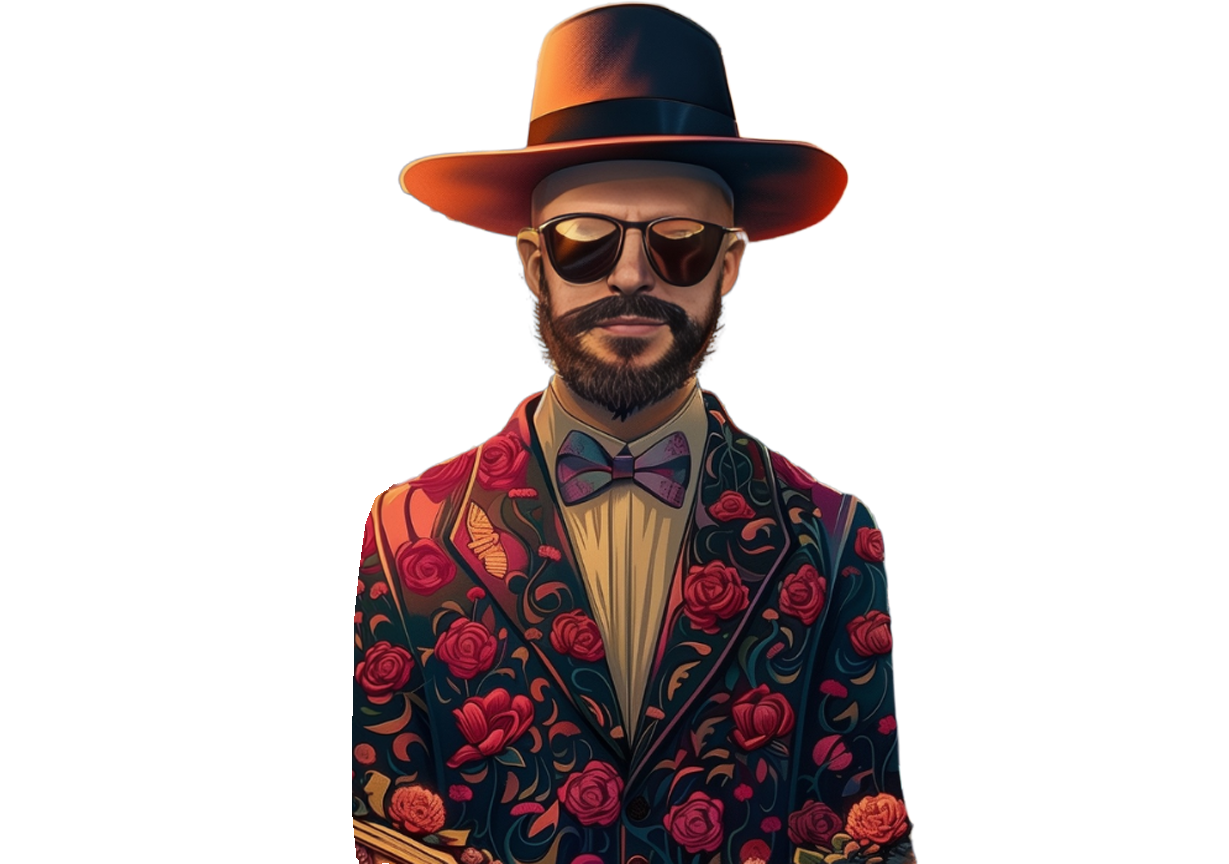
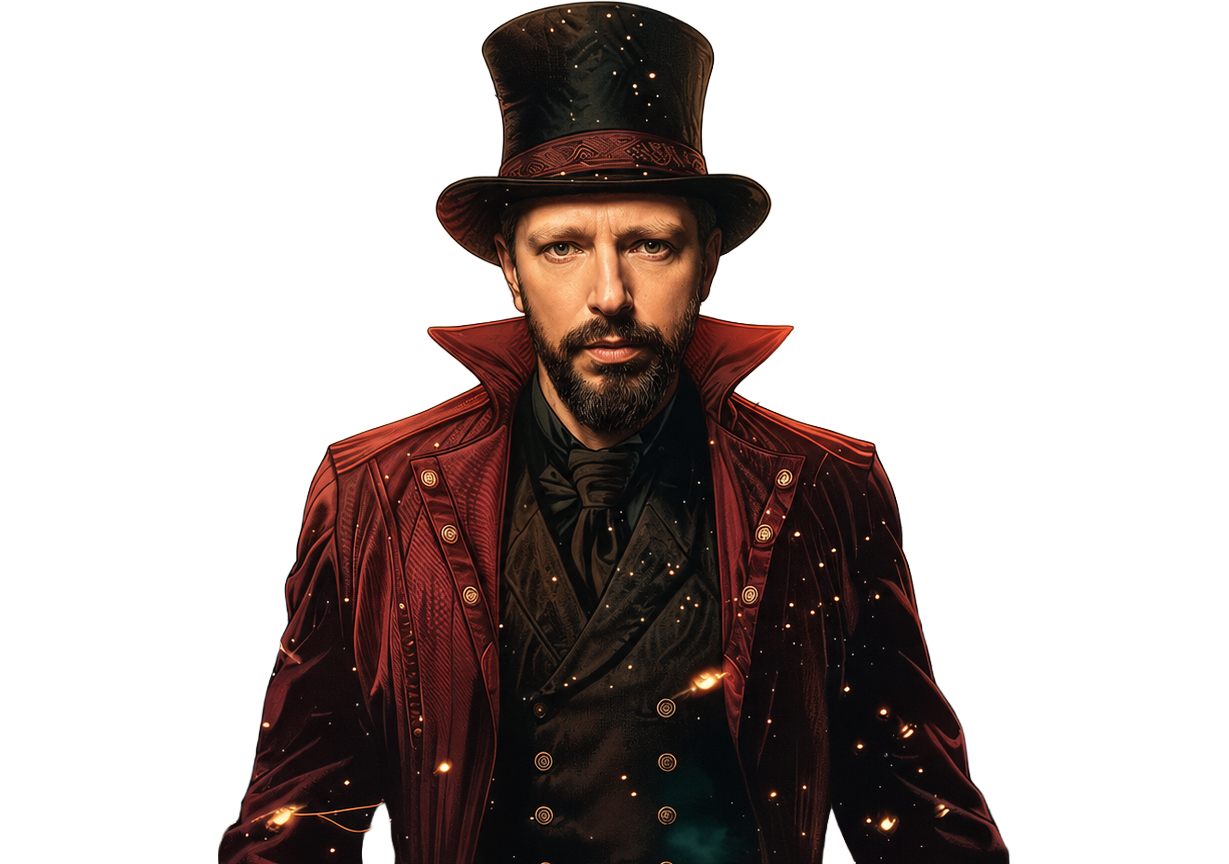
Authors: mobile-only bottom fade mask on cutout portraits; update MIQRO portrait

diff --git a/src/app/[locale]/authors/page.tsx b/src/app/[locale]/authors/page.tsx
@@ -406,7 +406,7 @@ export default async function AuthorsPage({ params }: Props) {
                               alt={author.name}
                               fill
                               sizes="(min-width: 768px) 50vw, 100vw"
-                              className={author.cutout ? "object-contain object-bottom drop-shadow-[0_20px_40px_rgba(0,0,0,0.5)]" : "object-cover"}
+                              className={author.cutout ? "object-contain object-bottom drop-shadow-[0_20px_40px_rgba(0,0,0,0.5)] [mask-image:linear-gradient(to_bottom,black_70%,transparent_99%)] [-webkit-mask-image:linear-gradient(to_bottom,black_70%,transparent_99%)] md:[mask-image:none] md:[-webkit-mask-image:none]" : "object-cover"}
                             />
                           </div>
                         </Parallax>